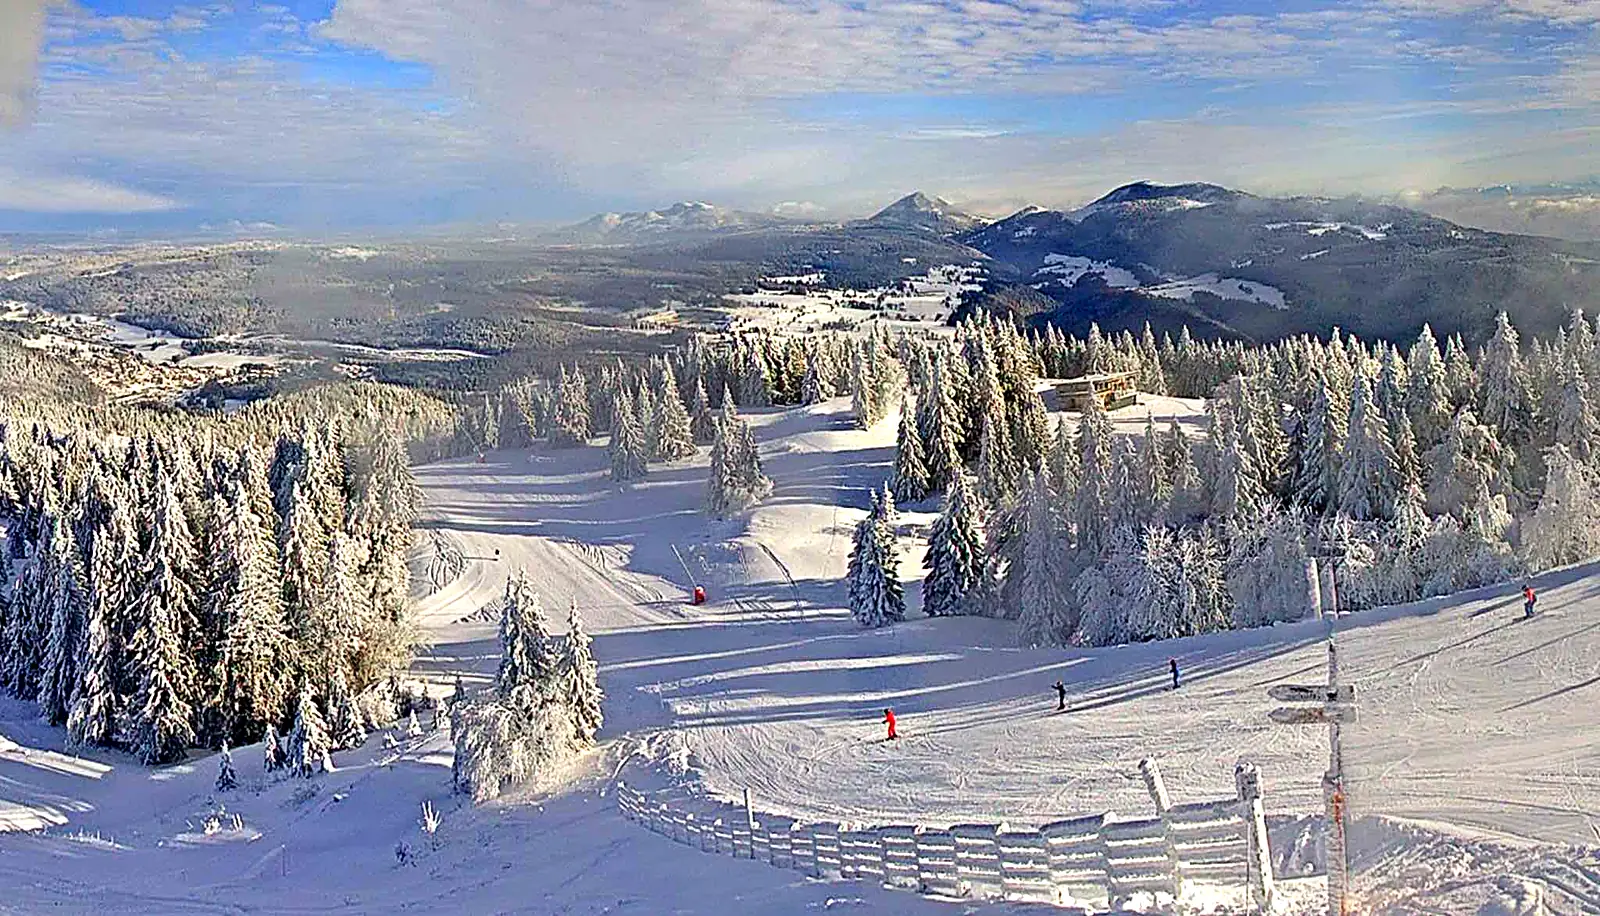
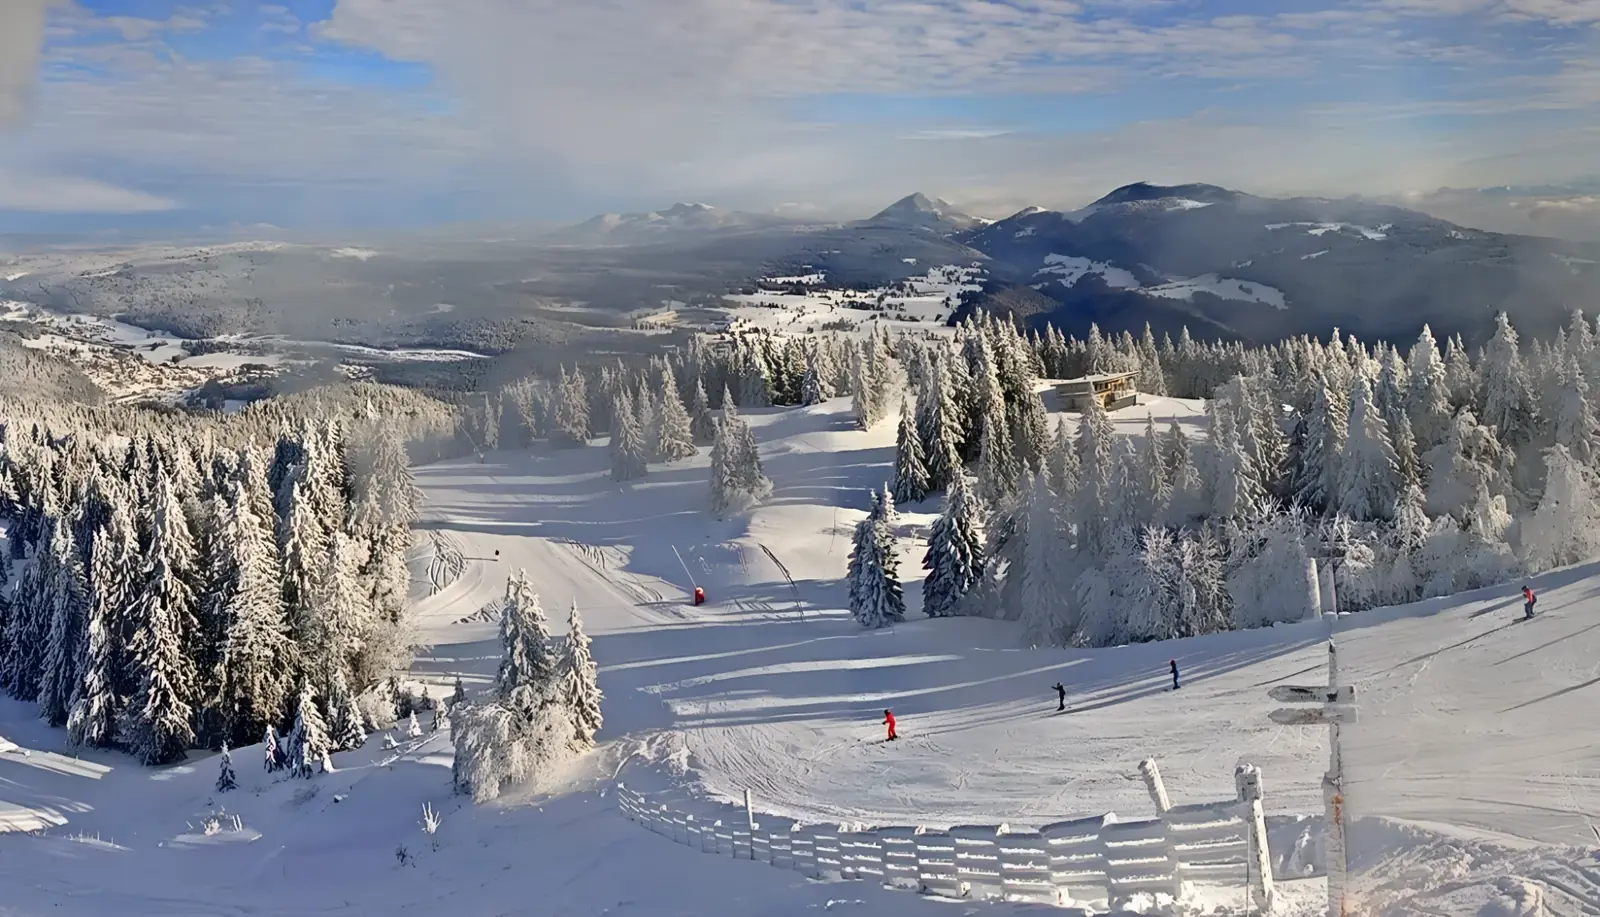
Bannière Hiver : photo retravaillée par Cyril ; bandeaux des pages recadrés vers le haut (#15)
- Hiver : version upscalée fournie par Cyril, plus nette et plus légère
  (226 / 171 Ko au lieu de 399 / 311).
- Bandeaux des pages intérieures : cadrage remonté (brouillard, sapins,
  ciel) au lieu des fleurs du premier plan ; sur mobile, léger zoom pour
  que le recadrage vertical ait un effet.

Claude-Session: https://claude.ai/code/session_01SNUK9Jsg5PEtaEFJYgEDuj

diff --git a/styles.css b/styles.css
@@ -220,6 +220,7 @@ header.header-principal {
 /* Header 2 (Pages internes) - Version Flexible */
 header.header2 {
     background: radial-gradient(ellipse 55% 45% at 50% 50%, rgba(0,0,0,0.38), rgba(0,0,0,0) 100%), url('images/banniere/vue-balcon-2-1920.webp') no-repeat center center;
+    background-position: center center, center 35%; /* brouillard, sapins et ciel plutôt que les fleurs du premier plan */
     background-size: cover;
     color: white;
     
@@ -318,6 +319,8 @@ section h2 {
     }
     header.header2 {
         background-image: radial-gradient(ellipse 55% 45% at 50% 50%, rgba(0,0,0,0.38), rgba(0,0,0,0) 100%), url('images/banniere/vue-balcon-2-1000.webp');
+        background-size: cover, auto 165%; /* mobile : léger zoom pour pouvoir remonter le cadrage */
+        background-position: center center, 62% 25%; /* brouillard et sapins plutôt que les fleurs du premier plan */
     }
     
     /* Header 2 (Pages) Mobile - CORRECTION TAILLE */
